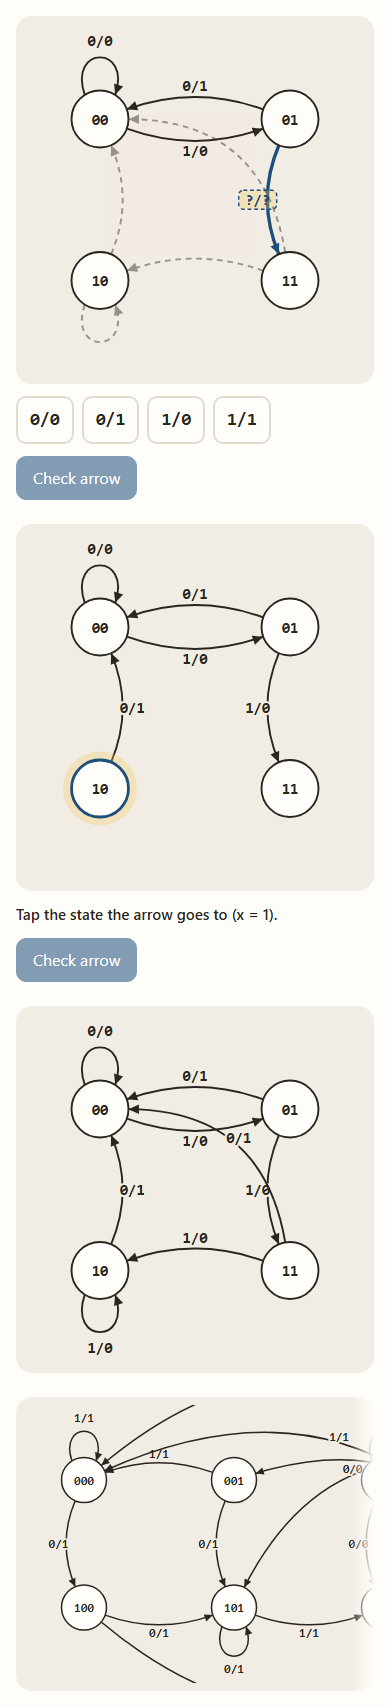
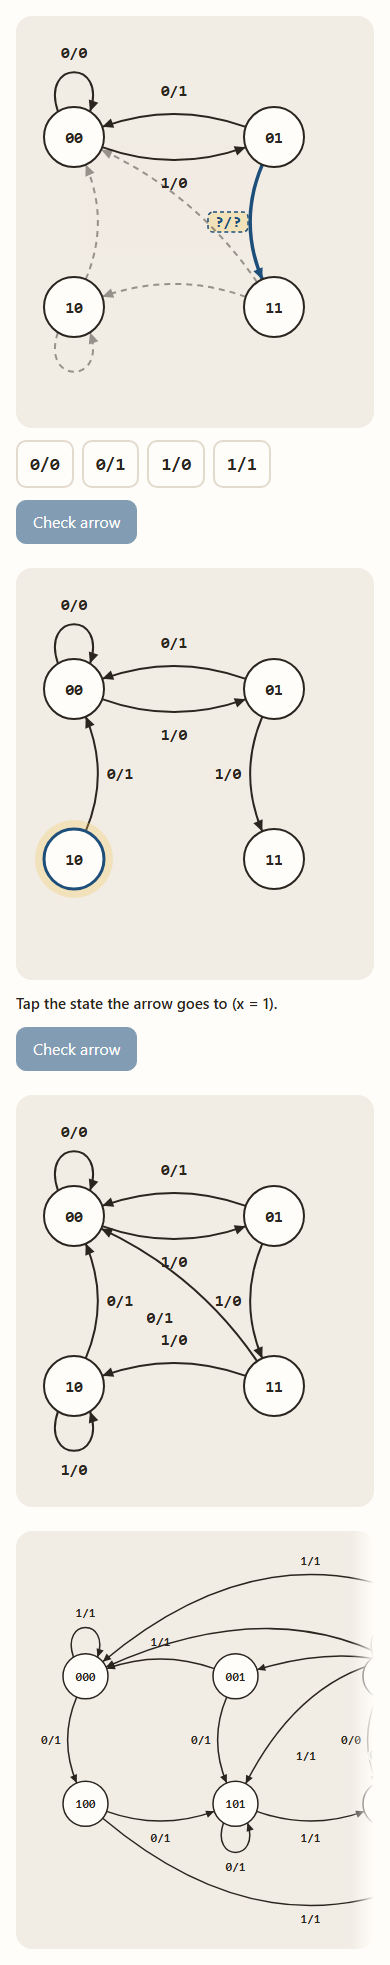
fix(kinds): state diagram labels off their arrows; drawing area from the arrows' bounds; shared-arrow goal text (#394 UX)

diff --git a/src/kinds/state-diagram/StateDiagram.tsx b/src/kinds/state-diagram/StateDiagram.tsx
@@ -59,7 +59,7 @@ const unit = (dx: number, dy: number) => {
 };
 
 /** The arrow from `p` to `q`: its path, where its head points, and where its label sits. */
-export function arrowGeometry(p: Point, q: Point, loopBelow = false): { d: string; tip: Point; dir: Point; label: Point } {
+export function arrowGeometry(p: Point, q: Point, loopBelow = false): { d: string; tip: Point; dir: Point; label: Point; apex: Point } {
   if (p.x === q.x && p.y === q.y) {
     // a loop above the circle (below it for bottom-row states)
     const s = loopBelow ? 1 : -1;
@@ -67,20 +67,24 @@ export function arrowGeometry(p: Point, q: Point, loopBelow = false): { d: strin
     const b = { x: p.x + 16, y: p.y + s * 25.4 };
     const c1 = { x: p.x - 34, y: p.y + s * 78 };
     const c2 = { x: p.x + 34, y: p.y + s * 78 };
-    return { d: `M ${a.x} ${a.y} C ${c1.x} ${c1.y} ${c2.x} ${c2.y} ${b.x} ${b.y}`, tip: b, dir: unit(b.x - c2.x, b.y - c2.y), label: { x: p.x, y: p.y + s * 82 } };
+    return { d: `M ${a.x} ${a.y} C ${c1.x} ${c1.y} ${c2.x} ${c2.y} ${b.x} ${b.y}`, tip: b, dir: unit(b.x - c2.x, b.y - c2.y), label: { x: p.x, y: p.y + s * 84 }, apex: { x: p.x, y: p.y + s * 66 } };
   }
   const dir = unit(q.x - p.x, q.y - p.y);
   const n = { x: -dir.y, y: dir.x }; // right-hand side of the direction of travel
   const mid = { x: (p.x + q.x) / 2, y: (p.y + q.y) / 2 };
   // an arrow that skips over a neighbour bends more, so it arcs clear of the circle in between
   const distance = Math.hypot(q.x - p.x, q.y - p.y);
-  const bend = distance > 1.25 * DX ? 0.42 * distance : BEND;
+  const bend = distance > 1.5 * DX ? 0.42 * distance : BEND;
   const c = { x: mid.x + n.x * bend, y: mid.y + n.y * bend };
+  // The label sits outside the bend, clear of its line. A diagonal's label goes on the inner side
+  // instead: outside it would land on the labels of the arrows along the square's edges.
+  const diagonal = p.x !== q.x && p.y !== q.y;
+  const labelOffset = diagonal ? -22 : bend / 2 + 28;
   const out = unit(c.x - p.x, c.y - p.y);
   const back = unit(c.x - q.x, c.y - q.y);
   const start = { x: p.x + out.x * R, y: p.y + out.y * R };
   const tip = { x: q.x + back.x * R, y: q.y + back.y * R };
-  return { d: `M ${start.x} ${start.y} Q ${c.x} ${c.y} ${tip.x} ${tip.y}`, tip, dir: { x: -back.x, y: -back.y }, label: { x: mid.x + n.x * (bend / 2 + 16), y: mid.y + n.y * (bend / 2 + 16) } };
+  return { d: `M ${start.x} ${start.y} Q ${c.x} ${c.y} ${tip.x} ${tip.y}`, tip, dir: { x: -back.x, y: -back.y }, label: { x: mid.x + n.x * labelOffset, y: mid.y + n.y * labelOffset }, apex: { x: mid.x + n.x * (bend / 2), y: mid.y + n.y * (bend / 2) } };
 }
 
 const head = (tip: Point, dir: Point) => {
@@ -102,10 +106,8 @@ const head = (tip: Point, dir: Point) => {
  */
 export function StateDiagram({ id, states, positions, transitions, mode, done, labelOptions = [], inputName, state = "idle", disabled = false, onCheck }: StateDiagramProps) {
   const cells = positions;
-  const { cols, rows, at } = statePositions(cells);
+  const { rows, at } = statePositions(cells);
   const pos = (code: string) => at[states.indexOf(code)];
-  const width = MX * 2 + (cols - 1) * DX;
-  const height = MY * 2 + (rows - 1) * DY;
   const finished = done >= transitions.length;
   const current = finished ? undefined : transitions[done];
   const editing = !!onCheck && !disabled && !finished && state !== "correct";
@@ -121,13 +123,29 @@ export function StateDiagram({ id, states, positions, transitions, mode, done, l
     arrows.get(key)!.items.push({ index, label: t.label });
   });
 
+  // The drawing's bounds: every circle, every arrow's apex and every label slot, plus padding, so
+  // nothing is clipped however far an arrow bends (#394).
+  const geometry = new Map([...arrows.entries()].map(([key, a]) => [key, arrowGeometry(pos(a.from), pos(a.to), rows > 1 && cells[states.indexOf(a.from)][1] === rows - 1)]));
+  const extent = [
+    ...at.flatMap((p) => [{ x: p.x - R - 10, y: p.y - R - 10 }, { x: p.x + R + 10, y: p.y + R + 10 }]),
+    ...[...geometry.entries()].flatMap(([key, g]) => {
+      const lines = arrows.get(key)!.items.length;
+      return [g.apex, { x: g.label.x - 26, y: g.label.y - 10 - lines * 9 }, { x: g.label.x + 26, y: g.label.y + 10 + lines * 9 }];
+    }),
+  ];
+  const PADDING = 10;
+  const minX = Math.min(...extent.map((p) => p.x)) - PADDING;
+  const minY = Math.min(...extent.map((p) => p.y)) - PADDING;
+  const width = Math.max(...extent.map((p) => p.x)) + PADDING - minX;
+  const height = Math.max(...extent.map((p) => p.y)) + PADDING - minY;
+
   // Keep the active arrow's source in view inside a scrolling well (eight states on a phone).
   const scroller = useRef<HTMLDivElement>(null);
   const fade = useScrollFade(scroller);
   useEffect(() => {
     const box = scroller.current;
     if (!box || !current || box.scrollWidth <= box.clientWidth) return;
-    const x = (pos(current.from).x / width) * box.scrollWidth;
+    const x = ((pos(current.from).x - minX) / width) * box.scrollWidth;
     box.scrollLeft = Math.max(0, x - box.clientWidth / 2);
     // eslint-disable-next-line react-hooks/exhaustive-deps -- when the goal changes
   }, [done]);
@@ -151,7 +169,7 @@ export function StateDiagram({ id, states, positions, transitions, mode, done, l
   return (
     <div className={styles.root} data-diagram={id}>
       <div className={styles.well} ref={scroller} data-fade={fade} {...(fade === "none" ? {} : { tabIndex: 0, role: "group", "aria-label": "State diagram, scrolls sideways" })}>
-        <svg viewBox={`0 0 ${width} ${height}`} className={styles.svg} style={{ maxWidth: width, minWidth: Math.round(width * MIN_SCALE) }} {...(choosing ? {} : { role: "img", "aria-label": summary })} {...focusTarget("state-diagram")}>
+        <svg viewBox={`${minX} ${minY} ${width} ${height}`} className={styles.svg} style={{ maxWidth: width, minWidth: Math.round(width * MIN_SCALE) }} {...(choosing ? {} : { role: "img", "aria-label": summary })} {...focusTarget("state-diagram")}>
           {choosing && <title>{summary}</title>}
           {/* arrows under the circles */}
           {[...arrows.values()].map((a) => {
@@ -160,8 +178,7 @@ export function StateDiagram({ id, states, positions, transitions, mode, done, l
             const isActive = mode === "label" && a.items.some((it) => it.index === done);
             const anyDone = a.items.some((it) => it.index < done);
             const kind = isActive ? "active" : anyDone || mode === "next" ? "done" : "later";
-            const p = pos(a.from);
-            const g = arrowGeometry(p, pos(a.to), rows > 1 && cells[states.indexOf(a.from)][1] === rows - 1);
+            const g = geometry.get(`${a.from}>${a.to}`)!;
             return (
               <g key={`${a.from}>${a.to}`} className={styles.arrow} data-arrow={`${a.from}>${a.to}`} data-state={kind}>
                 <path d={g.d} className={styles.arrowLine} />

diff --git a/src/kinds/state-diagram/ui.test.tsx b/src/kinds/state-diagram/ui.test.tsx
@@ -112,18 +112,18 @@ describe("state-diagram kind in the stage (#240)", () => {
     const shared = VariantSchema.parse({ id: "v-s", prompt: "Label each arrow.", spec: { kind: "state-diagram", stateVars: ["A", "B"], input: "x", next: ["B", "A'"], output: { name: "y", expr: "x" } }, ...base });
     render(<Harness variant={shared} />);
     const user = userEvent.setup();
-    await screen.findByText("Arrow 1 of 8: 00 → 01");
+    await screen.findByText("Arrow 1 of 8: 00 → 01 (label 1 of 2 on this arrow)");
     const answer = async (label: string) => {
       await user.click(screen.getByRole("radio", { name: label }));
       await user.click(screen.getByRole("button", { name: "Check arrow" }));
     };
     await answer("1/1"); // the second row's label first: accepted
-    await screen.findByText("Arrow 2 of 8: 00 → 01");
+    await screen.findByText("Arrow 2 of 8: 00 → 01 (label 2 of 2 on this arrow)");
     expect(document.querySelector("[data-label='0']")).toHaveTextContent("1/1");
     await answer("1/1"); // already taken on this arrow
     expect(screen.getByText("Not correct yet.")).toBeInTheDocument();
     await answer("0/0");
-    await screen.findByText("Arrow 3 of 8: 01 → 11");
+    await screen.findByText("Arrow 3 of 8: 01 → 11 (label 1 of 2 on this arrow)");
     expect(document.querySelector("[data-label='1']")).toHaveTextContent("0/0");
   });
 });

diff --git a/src/kinds/state-diagram/ui.tsx b/src/kinds/state-diagram/ui.tsx
@@ -48,15 +48,16 @@ export function Practice({ variant, prompt, state, stepIndex, locked, onSubmit }
   const finished = state === "correct" && locked;
   const done = finished ? rows.length : stepIndex;
   const t = rows[Math.min(done, rows.length - 1)];
-  const taken = arrowSteps(spec, Math.min(stepIndex, rows.length - 1))
-    .filter((i) => i < stepIndex)
-    .map((i) => rows[i].label);
+  const current = Math.min(stepIndex, rows.length - 1);
+  // the steps that share this arrow (two when both inputs take the state to the same next state)
+  const onArrow = arrowSteps(spec, current);
+  const taken = onArrow.filter((i) => i < stepIndex).map((i) => rows[i].label);
   return (
     <>
       <Prompt text={prompt} />
       {!finished && (
         <p className={shared.stepLabel} aria-live="polite">
-          {spec.mode === "next" ? `Arrow ${done + 1} of ${rows.length}: from ${t.from} with ${spec.input} = ${t.input}` : `Arrow ${done + 1} of ${rows.length}: ${t.from} → ${t.to}`}
+          {spec.mode === "next" ? `Arrow ${done + 1} of ${rows.length}: from ${t.from} with ${spec.input} = ${t.input}` : `Arrow ${done + 1} of ${rows.length}: ${t.from} → ${t.to}${onArrow.length > 1 ? ` (label ${onArrow.indexOf(current) + 1} of 2 on this arrow)` : ""}`}
         </p>
       )}
       <div className={styles.layout}>
